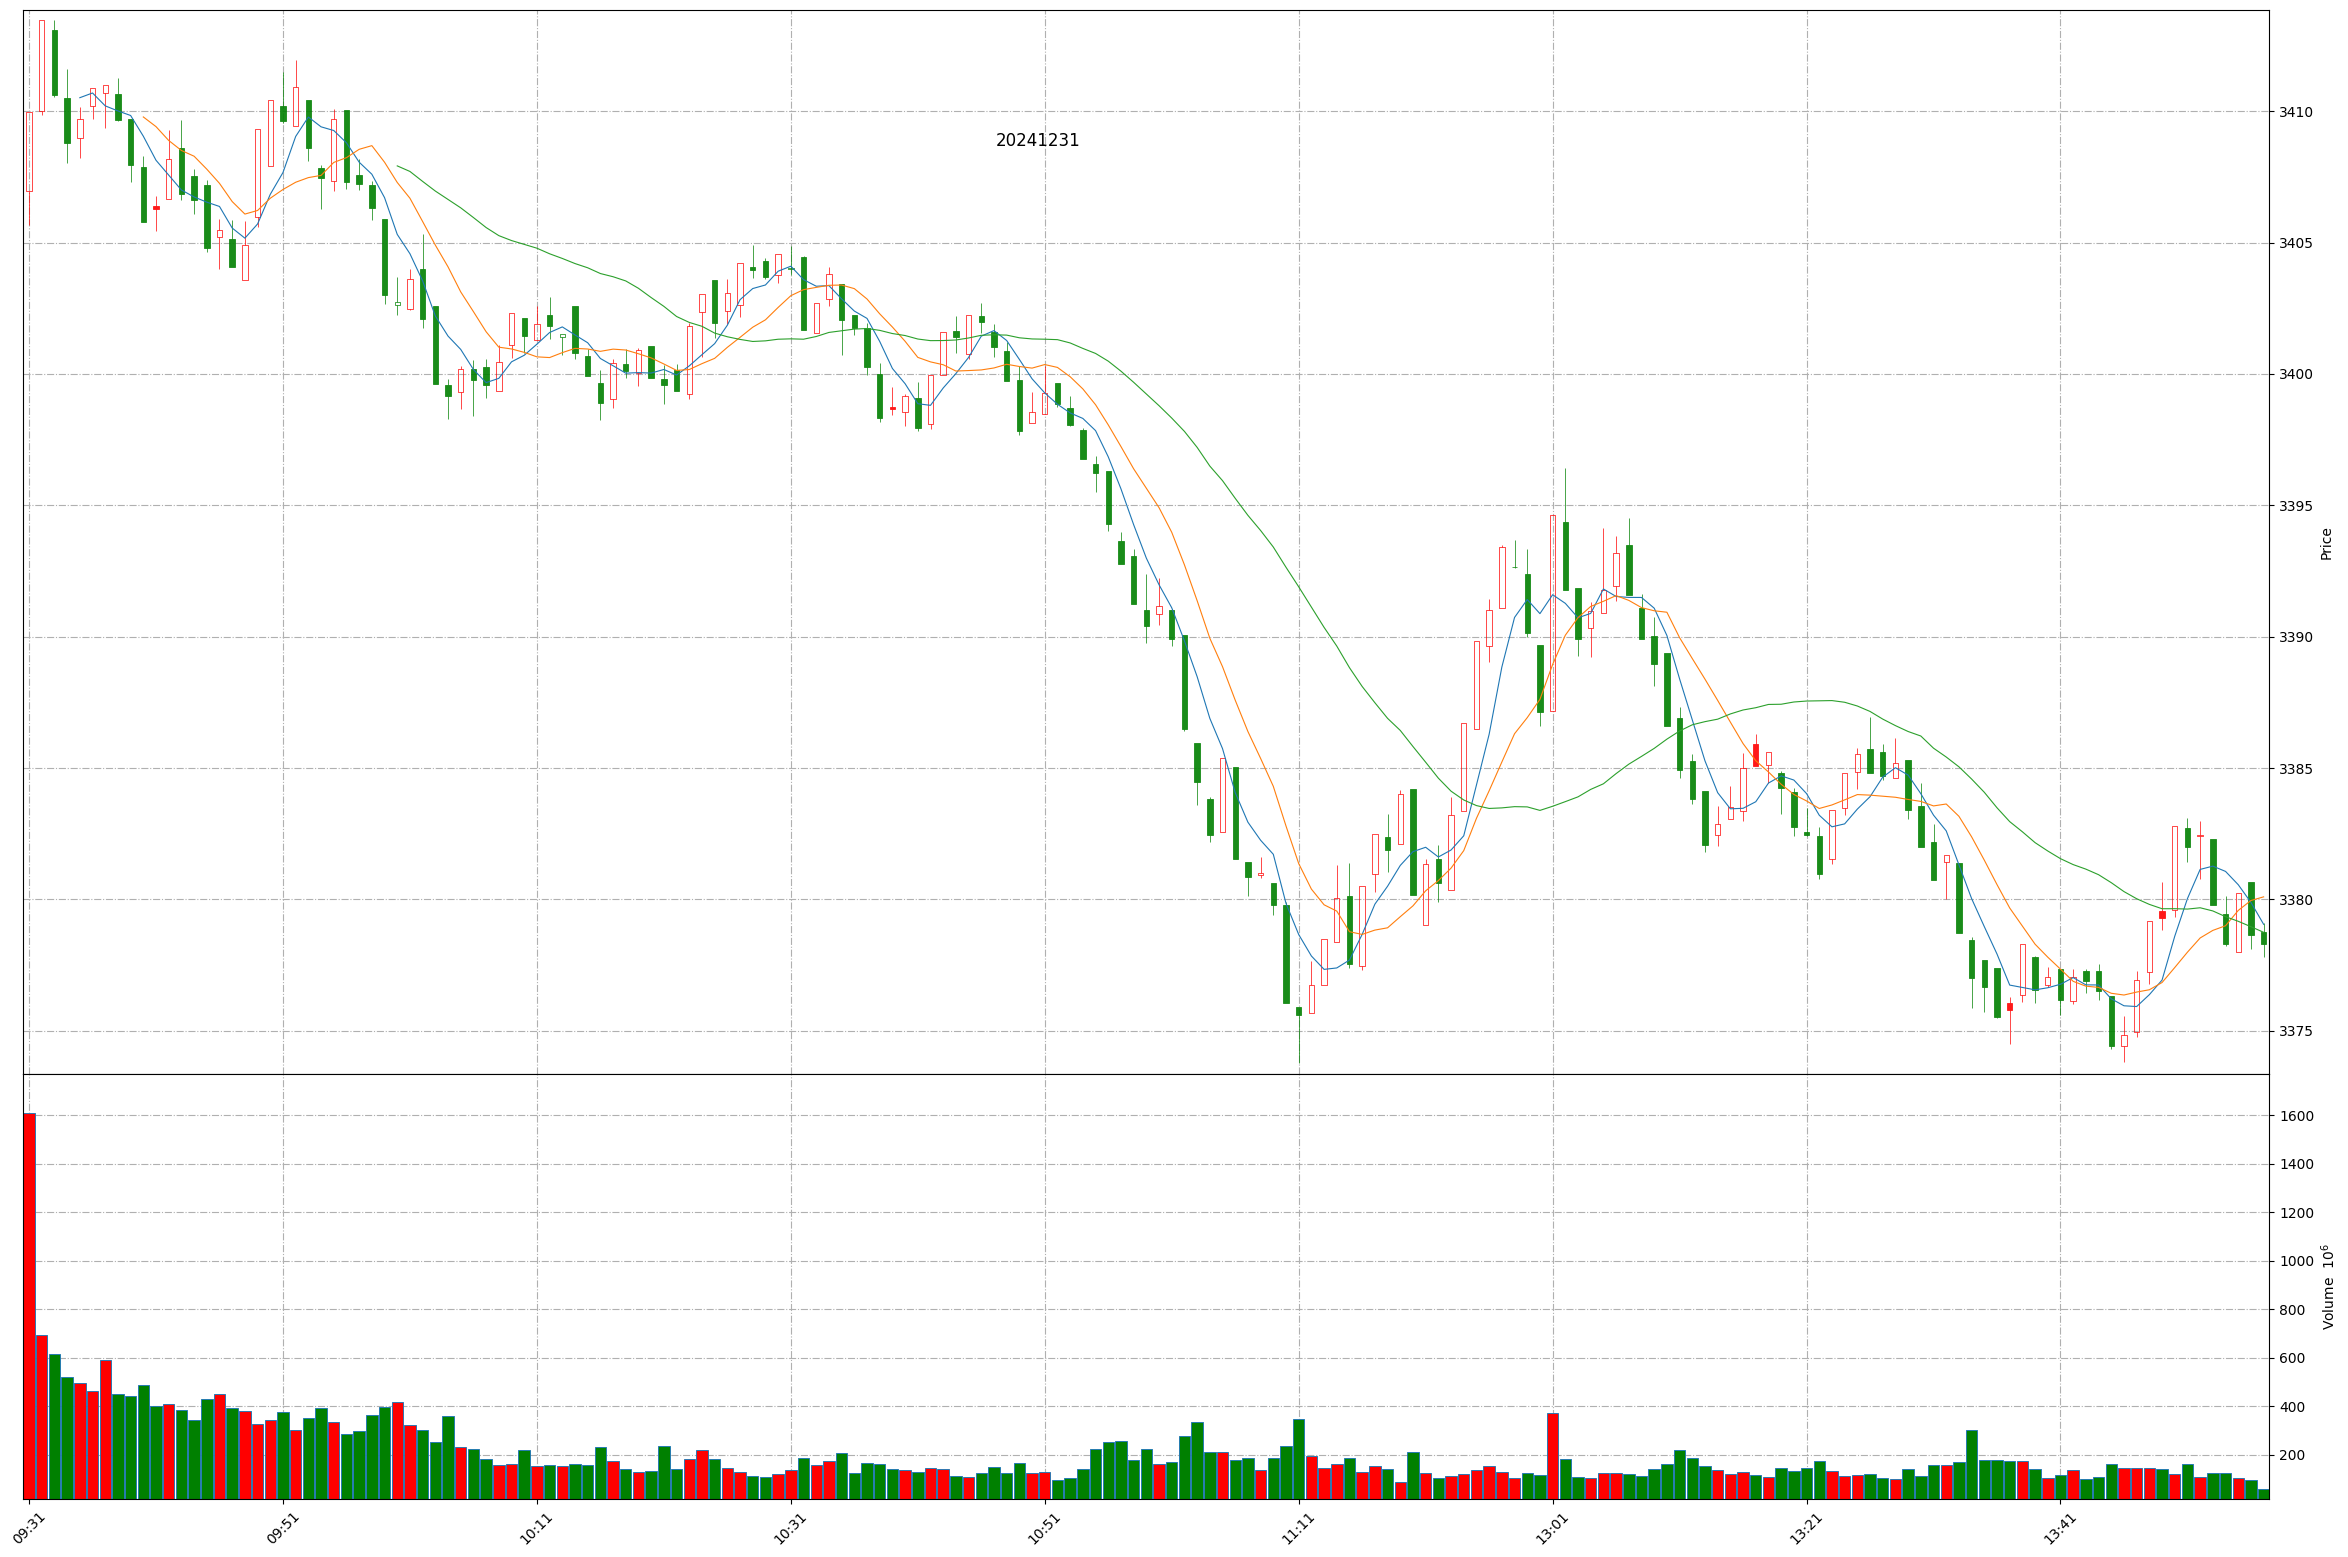
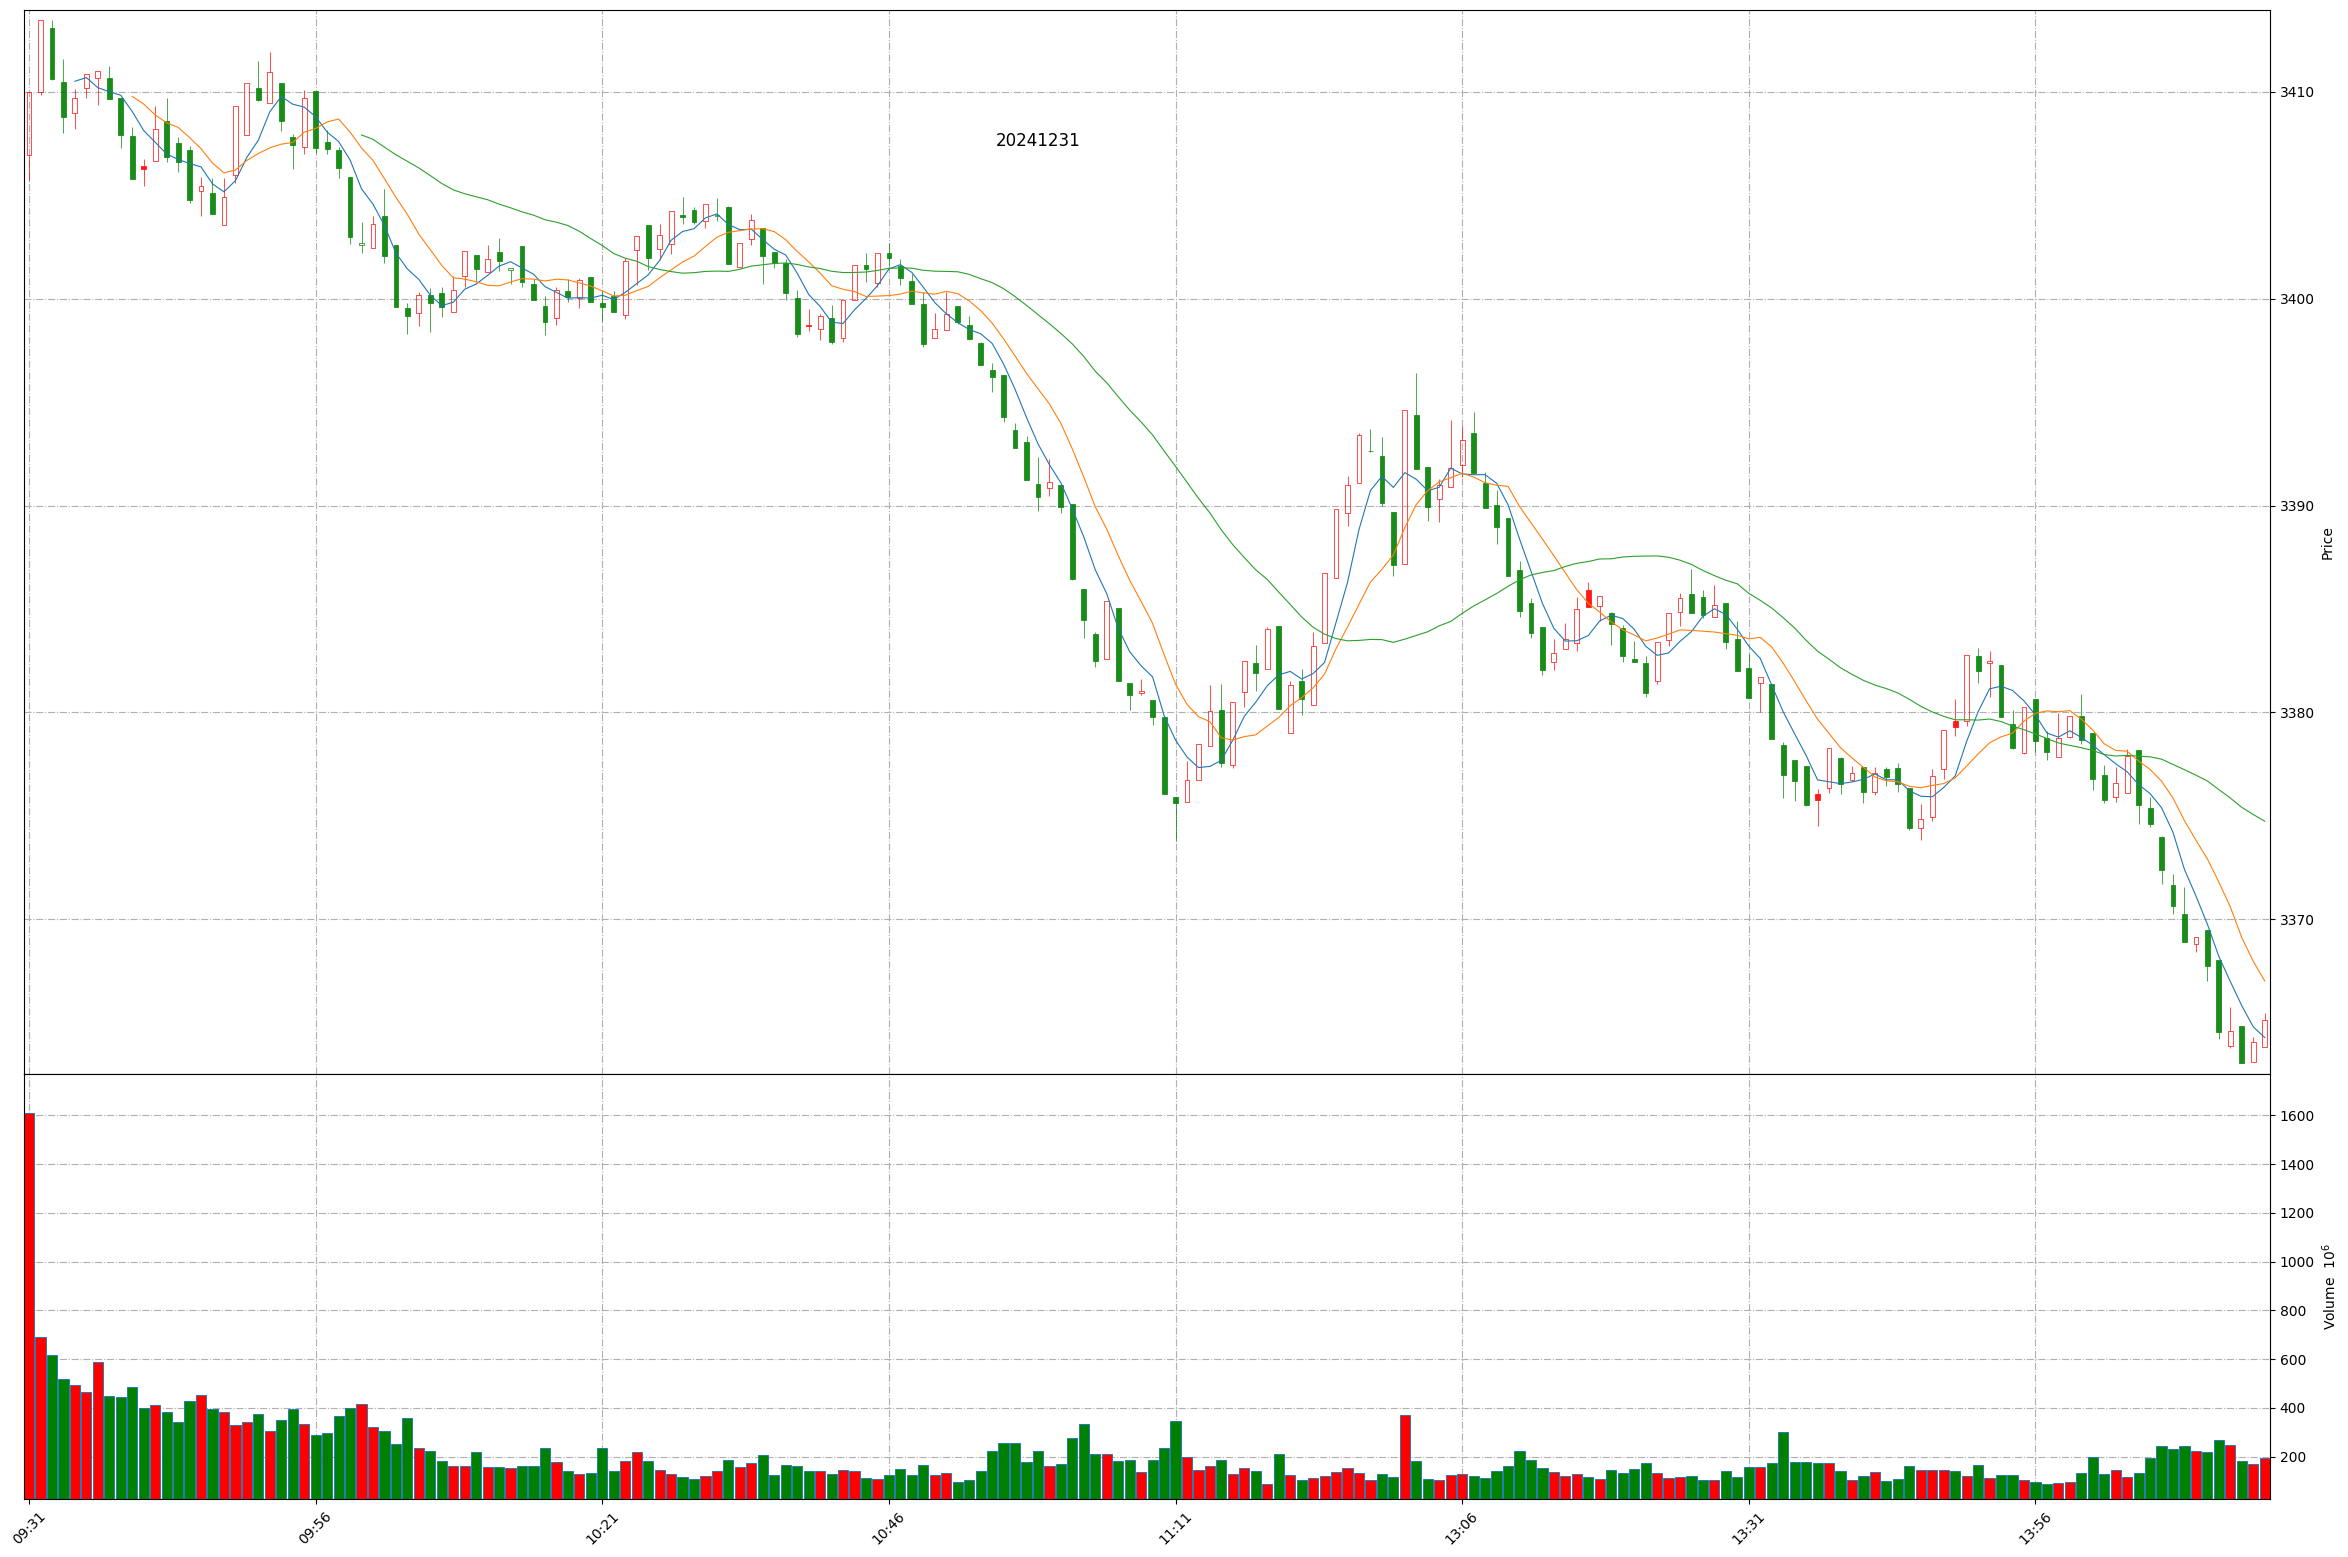
Github action update at 2024-12-31 14:16:16.

diff --git a/README.md b/README.md
@@ -1,11 +1,11 @@
 
 # Daily-A-share-market-quotes 每日 A 股指数（5min 更新）- 20241231
 
-### 上证指数 20241231 13:57
+### 上证指数 20241231 14:16
 ![](./fig/2024/12/20241231-sh000001.png)
 
-### 深证成指 20241231 13:57
+### 深证成指 20241231 14:16
 ![](./fig/2024/12/20241231-sz399001.png)
 
-### 北证50 20241231 13:57
+### 北证50 20241231 14:16
 ![](./fig/2024/12/20241231-bj899050.png)
